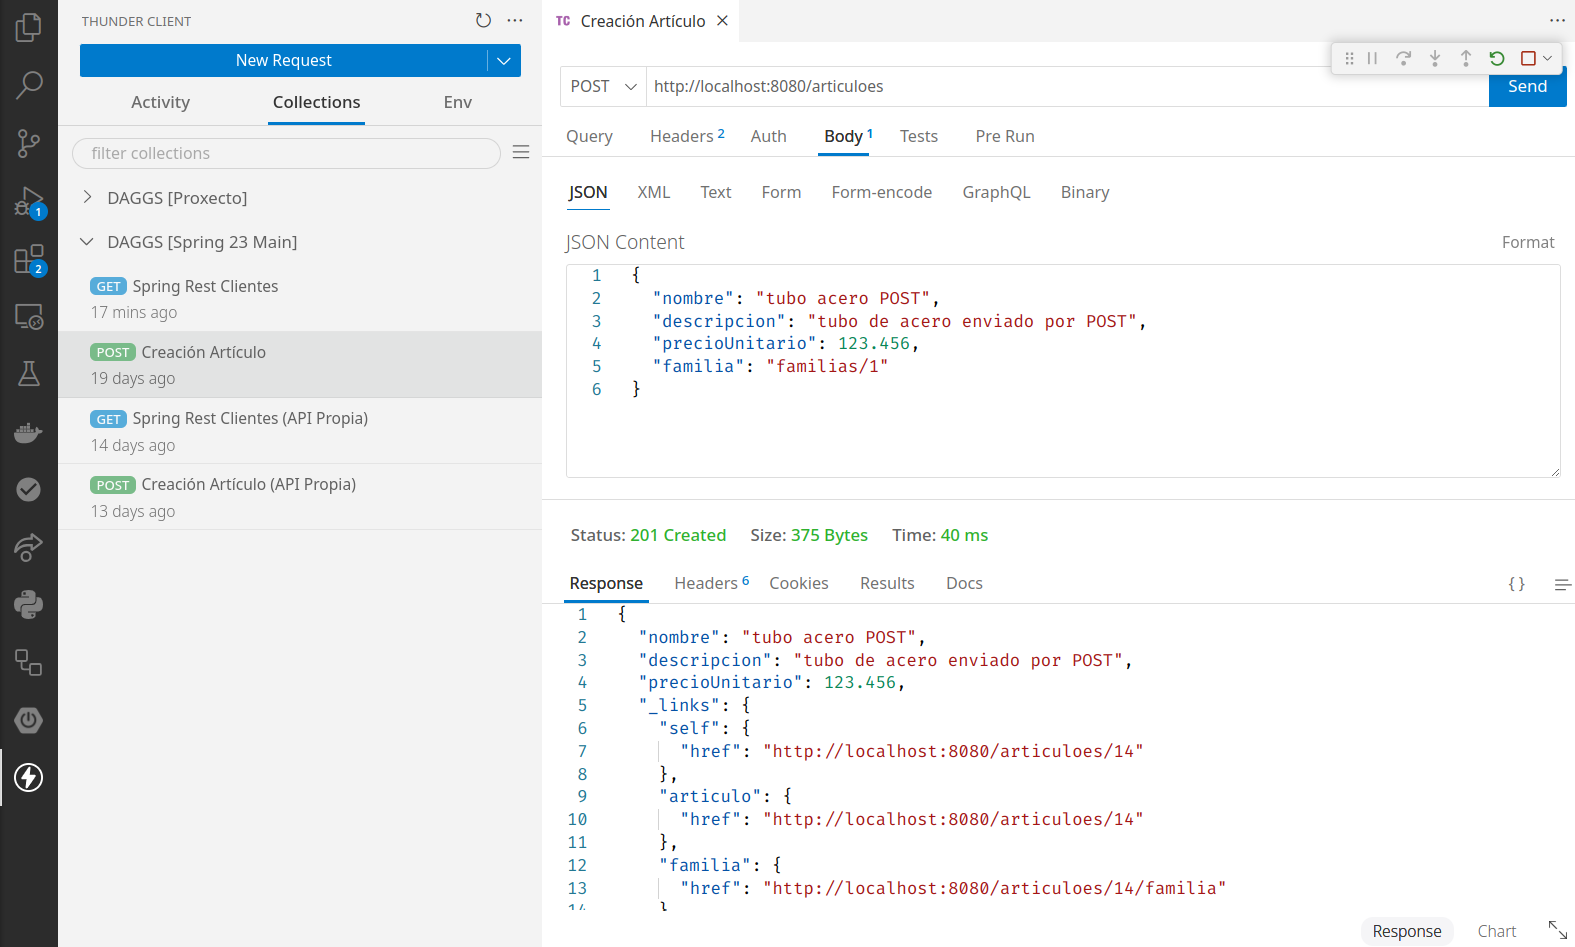
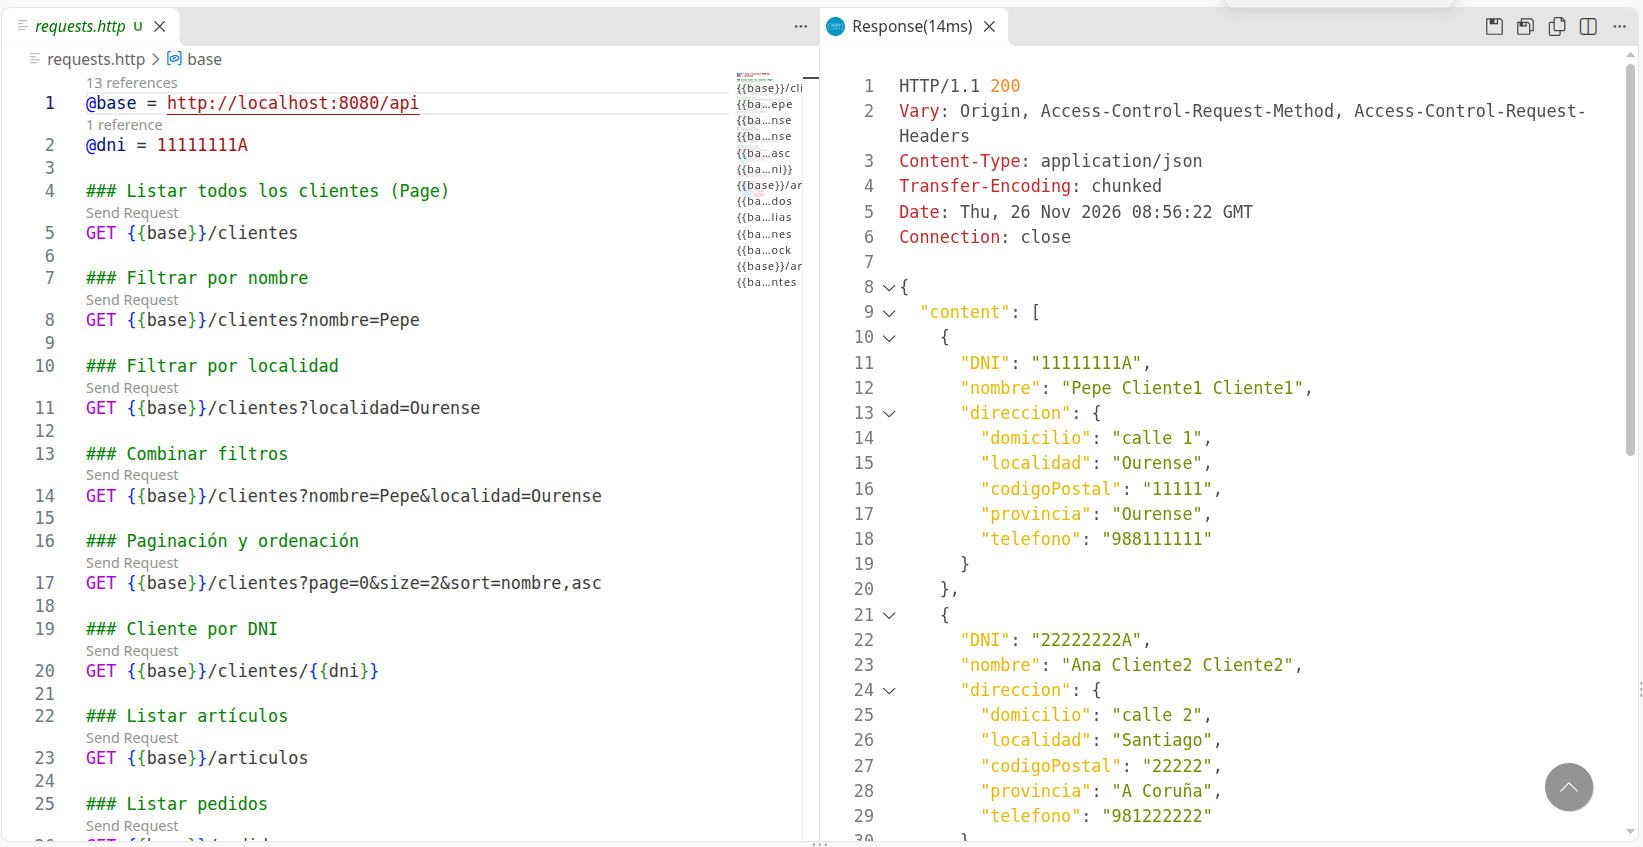
Añade requests.http

diff --git a/doc/peticiones_REST.md b/doc/peticiones_REST.md
@@ -2,6 +2,22 @@
 
 Todas las rutas del API están bajo la base `/api`. Las antiguas rutas de Spring Data REST (`/articuloes`, `/pedidoes`, ...) **no** están disponibles en este proyecto.
 
+## `requests.http` + VS Code REST Client (recomendado)
+
+1. Instala la extensión **REST Client** (`humao.rest-client`) en VS Code:
+   - Desde VS Code: panel **Extensions** (`Ctrl+Shift+X`), busca **REST Client** (autor Huachao Mao) y pulsa **Install**.
+   - Desde la terminal:
+     ```bash
+     code --install-extension humao.rest-client
+     ```
+   - Marketplace: https://marketplace.visualstudio.com/items?itemName=humao.rest-client
+2. Abre [`../requests.http`](../requests.http).
+3. Pulsa **Send Request** sobre la petición que quieras lanzar.
+
+Este método tiene la ventaja de que las peticiones quedan en texto plano, y por tanto son versionables en Git, y además no requiere de cuenta ni de herramientas externas.
+
+![REST Client (VS Code)](vscode.png "REST Client (VS Code)")
+
 ## `curl`
 
 Ejemplos `GET`:
@@ -47,14 +63,8 @@ curl -v --header 'Content-Type: application/json' \
   --request POST http://localhost:8080/api/clientes
 ```
 
-## Extensiones
+## Alternativas
 
-Las siguientes extensiones permiten gestionar colecciones de peticiones y ejecutarlas desde las propias extensiones:
-
-- VS Code: [Thunder Client](https://marketplace.visualstudio.com/items?itemName=rangav.vscode-thunder-client)
-- Firefox: [RESTED](https://addons.mozilla.org/en-US/firefox/addon/rested)
-- Chrome: [Talend API Tester](https://chromewebstore.google.com/detail/talend-api-tester-free-ed/aejoelaoggembcahagimdiliamlcdmfm?pli=1)
-
-Por ejemplo, la petición `POST` anterior se vería de la siguiente manera en Thunder Client (VS Code).
-
-![Thunder Client (VS Code)](vscode.png "Thunder Client (VS Code)")
+- **Bruno**: cliente de escritorio offline y Git-native; las colecciones se guardan como ficheros en el repositorio.
+- **Hoppscotch**: cliente en navegador, sin instalación; también se puede self-hostear.
+- **Postman**: si ya lo usas; ten en cuenta que el plan gratuito es de un solo usuario desde marzo de 2026.

diff --git a/README.md b/README.md
@@ -164,8 +164,9 @@ mvn spring-boot:run
    - http://localhost:8080/api/almacenes/1/articulos
    - http://localhost:8080/api/almacenes/1/articulos/2/stock
 
-**Pruebas**: 
-* Realiza pruebas enviando peticiones HTTP con `curl` o con extensiones que faciliten este trabajo. Más detalles [aquí](doc/peticiones_REST.md).
+**Pruebas**:
+* **Recomendado:** abrir [`requests.http`](requests.http) en VS Code con la extensión **REST Client** y pulsar "Send Request".
+* También puedes usar `curl`: ejemplos en [`doc/peticiones_REST.md`](doc/peticiones_REST.md).
 
 ### EXTRA: SpringDoc OpenAPI (generador de documentación on-line OpenAPI/Swagger) [no es parte de Spring]
 
